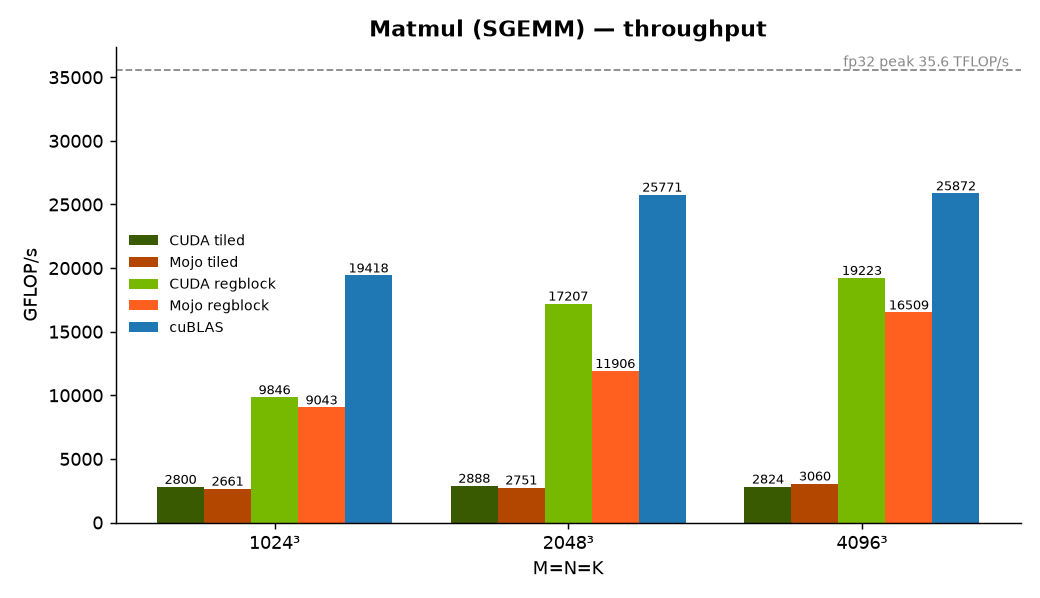
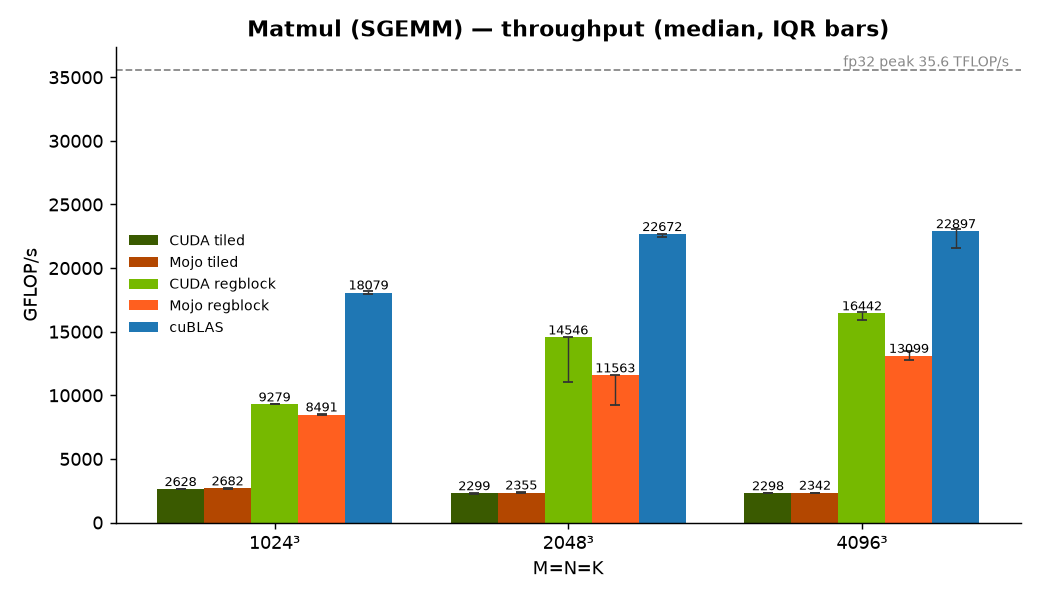
results: re-measure under locked SM clocks; regenerate CSV and charts
Re-ran the full sweep with the SM clock pinned at 1695 MHz (recorded in
run-env.txt). Pinning matters because the harness runs the CUDA variant before
the Mojo one within each kernel: on an unlocked, boosting card the compute-heavy
4096-cubed Mojo run lands on a hotter, down-clocked GPU and looks ~13% slower
than it is. Locking removes that ordering bias so numerator and denominator share
one clock.

Consequences visible in the new CSV/charts:
- The old "95% / 87%" memory-bound gaps collapse to dead heats (overlapping IQRs).
- The old single-run "84% at 4096-cubed" matmul becomes an honest median of ~80%.
- fp32-of-peak percentages drop (the earlier draft divided a boosted ~2 GHz
  numerator by a 1695 MHz denominator).

plot.py reads the new median/p25/p75 schema and draws the vendor reference lines.

diff --git a/bench/plot.py b/bench/plot.py
@@ -30,21 +30,42 @@ def load():
     rows = []
     with open(CSV) as f:
         for r in csv.DictReader(f):
-            for kf in ("m", "n", "k", "correct"):
+            for kf in ("m", "n", "k", "n_runs", "correct"):
                 r[kf] = int(r[kf])
-            for ff in ("time_ms", "gflops", "gbytes_s"):
+            for ff in ("median_ms", "p25_ms", "p75_ms", "gflops", "gbytes_s"):
                 r[ff] = float(r[ff])
             rows.append(r)
     return rows
 
 
-def grouped_bar(ax, labels, series, colors, ylabel, title, ceiling=None, ceiling_label=None):
+def iqr_err(row, metric):
+    """Return (low, high) error-bar magnitudes for a throughput `metric`.
+
+    Throughput is inversely proportional to time, so the fast quartile (p25 time)
+    maps to the HIGH throughput bound and the slow quartile (p75) to the LOW one.
+    Returns 0 when the row is absent (a missing series in the grouped bar)."""
+    if not row:
+        return 0.0, 0.0
+    val = row[metric]
+    hi = val * row["median_ms"] / row["p25_ms"]
+    lo = val * row["median_ms"] / row["p75_ms"]
+    # clamp tiny fp-noise negatives (p25==median==p75 -> exact 0 bounds)
+    return max(0.0, val - lo), max(0.0, hi - val)
+
+
+def grouped_bar(ax, labels, series, colors, ylabel, title, ceiling=None,
+                ceiling_label=None, errs=None):
     import numpy as np
     x = np.arange(len(labels))
     n = len(series)
     w = 0.8 / n
     for i, (name, vals) in enumerate(series):
-        bars = ax.bar(x + (i - (n - 1) / 2) * w, vals, w, label=name, color=colors[i])
+        yerr = None
+        if errs is not None and errs[i] is not None:
+            yerr = np.array(errs[i]).T  # shape (2, len) -> [lower row, upper row]
+        bars = ax.bar(x + (i - (n - 1) / 2) * w, vals, w, label=name, color=colors[i],
+                      yerr=yerr, capsize=2.5,
+                      error_kw=dict(elinewidth=0.8, ecolor="#333333"))
         for b, v in zip(bars, vals):
             if v > 0:
                 ax.text(b.get_x() + b.get_width() / 2, v, f"{v:.0f}",
@@ -62,15 +83,28 @@ def grouped_bar(ax, labels, series, colors, ylabel, title, ceiling=None, ceiling
 
 
 def plot_reduction(rows):
-    r = [x for x in rows if x["kernel"] == "reduction" and x["variant"] == "warp_shfl"]
+    r = [x for x in rows if x["kernel"] == "reduction" and x["variant"] in ("warp_shfl", "cub")]
     sizes = sorted({x["m"] for x in r})
     labels = [f"{s // (1 << 20)}M" for s in sizes]
-    cuda = [next(x["gbytes_s"] for x in r if x["impl"] == "cuda" and x["m"] == s) for s in sizes]
-    mojo = [next(x["gbytes_s"] for x in r if x["impl"] == "mojo" and x["m"] == s) for s in sizes]
-    fig, ax = plt.subplots(figsize=(7, 4.2))
-    grouped_bar(ax, labels, [("CUDA warp_shfl", cuda), ("Mojo warp_shfl", mojo)],
-                [CUDA_C, MOJO_C], "GB/s", "Reduction (sum) — achieved DRAM bandwidth",
-                PEAK_BW, f"peak {PEAK_BW:.0f} GB/s")
+
+    def rowset(impl, variant):
+        picked = []
+        for s in sizes:
+            m = [x for x in r if x["impl"] == impl and x["variant"] == variant and x["m"] == s]
+            picked.append(m[0] if m else None)
+        return picked
+
+    defs = [("CUDA warp_shfl", CUDA_C, rowset("cuda", "warp_shfl")),
+            ("Mojo warp_shfl", MOJO_C, rowset("mojo", "warp_shfl")),
+            ("cub (vendor)",   REF_C,  rowset("cuda", "cub"))]
+    vals = [[(x["gbytes_s"] if x else 0.0) for x in rs] for _, _, rs in defs]
+    errs = [[iqr_err(x, "gbytes_s") for x in rs] for _, _, rs in defs]
+
+    fig, ax = plt.subplots(figsize=(7.5, 4.2))
+    grouped_bar(ax, labels, [(d[0], v) for d, v in zip(defs, vals)],
+                [d[1] for d in defs], "GB/s",
+                "Reduction (sum) — achieved DRAM bandwidth (median, IQR bars)",
+                PEAK_BW, f"peak {PEAK_BW:.0f} GB/s", errs=errs)
     ax.set_xlabel("elements")
     fig.tight_layout()
     out = os.path.join(ROOT, "results", "reduction_bandwidth.png")
@@ -78,15 +112,31 @@ def plot_reduction(rows):
 
 
 def plot_softmax(rows):
-    r = [x for x in rows if x["kernel"] == "softmax" and x["variant"] == "online"]
-    shapes = sorted({(x["m"], x["n"]) for x in r}, key=lambda s: s[1])
+    r = [x for x in rows if x["kernel"] == "softmax"
+         and x["variant"] in ("online", "vendor")]
+    shapes = sorted({(x["m"], x["n"]) for x in r
+                     if x["variant"] == "online"}, key=lambda s: s[1])
     labels = [f"{m}x{n}" for m, n in shapes]
-    cuda = [next(x["gbytes_s"] for x in r if x["impl"] == "cuda" and (x["m"], x["n"]) == s) for s in shapes]
-    mojo = [next(x["gbytes_s"] for x in r if x["impl"] == "mojo" and (x["m"], x["n"]) == s) for s in shapes]
+
+    def rowset(impl):
+        picked = []
+        for s in shapes:
+            m = [x for x in r if x["impl"] == impl and (x["m"], x["n"]) == s]
+            picked.append(m[0] if m else None)
+        return picked
+
+    defs = [("CUDA online", CUDA_C, rowset("cuda")),
+            ("Mojo online", MOJO_C, rowset("mojo"))]
+    if any(x["impl"] == "torch" for x in r):   # only if the vendor ref was run
+        defs.append(("torch (vendor)", REF_C, rowset("torch")))
+    vals = [[(x["gbytes_s"] if x else 0.0) for x in rs] for _, _, rs in defs]
+    errs = [[iqr_err(x, "gbytes_s") for x in rs] for _, _, rs in defs]
+
     fig, ax = plt.subplots(figsize=(7, 4.2))
-    grouped_bar(ax, labels, [("CUDA online", cuda), ("Mojo online", mojo)],
-                [CUDA_C, MOJO_C], "GB/s", "Softmax (row-wise) — achieved DRAM bandwidth",
-                PEAK_BW, f"peak {PEAK_BW:.0f} GB/s")
+    grouped_bar(ax, labels, [(d[0], v) for d, v in zip(defs, vals)],
+                [d[1] for d in defs], "GB/s",
+                "Softmax (row-wise) — achieved DRAM bandwidth (median, IQR bars)",
+                PEAK_BW, f"peak {PEAK_BW:.0f} GB/s", errs=errs)
     ax.set_xlabel("rows x cols")
     fig.tight_layout()
     out = os.path.join(ROOT, "results", "softmax_bandwidth.png")
@@ -98,23 +148,26 @@ def plot_matmul(rows):
     sizes = sorted({x["m"] for x in r})
     labels = [f"{s}³" for s in sizes]
 
-    def series(impl, variant):
-        out = []
+    def rowset(impl, variant):
+        picked = []
         for s in sizes:
             m = [x for x in r if x["impl"] == impl and x["variant"] == variant and x["m"] == s]
-            out.append(m[0]["gflops"] if m else 0.0)
-        return out
+            picked.append(m[0] if m else None)
+        return picked
+
+    defs = [("CUDA tiled",    "#3a5a00", rowset("cuda", "tiled")),
+            ("Mojo tiled",    "#b34700", rowset("mojo", "tiled")),
+            ("CUDA regblock", CUDA_C,    rowset("cuda", "regblock")),
+            ("Mojo regblock", MOJO_C,    rowset("mojo", "regblock")),
+            ("cuBLAS",        "#1f77b4", rowset("cuda", "cublas"))]
+    vals = [[(x["gflops"] if x else 0.0) for x in rs] for _, _, rs in defs]
+    errs = [[iqr_err(x, "gflops") for x in rs] for _, _, rs in defs]
 
     fig, ax = plt.subplots(figsize=(8, 4.6))
-    grouped_bar(ax, labels, [
-        ("CUDA tiled", series("cuda", "tiled")),
-        ("Mojo tiled", series("mojo", "tiled")),
-        ("CUDA regblock", series("cuda", "regblock")),
-        ("Mojo regblock", series("mojo", "regblock")),
-        ("cuBLAS", series("cuda", "cublas")),
-    ], ["#3a5a00", "#b34700", CUDA_C, MOJO_C, "#1f77b4"],
-        "GFLOP/s", "Matmul (SGEMM) — throughput",
-        PEAK_FP32, f"fp32 peak {PEAK_FP32/1000:.1f} TFLOP/s")
+    grouped_bar(ax, labels, [(d[0], v) for d, v in zip(defs, vals)],
+                [d[1] for d in defs], "GFLOP/s",
+                "Matmul (SGEMM) — throughput (median, IQR bars)",
+                PEAK_FP32, f"fp32 peak {PEAK_FP32/1000:.1f} TFLOP/s", errs=errs)
     ax.set_xlabel("M=N=K")
     fig.tight_layout()
     out = os.path.join(ROOT, "results", "matmul_gflops.png")
